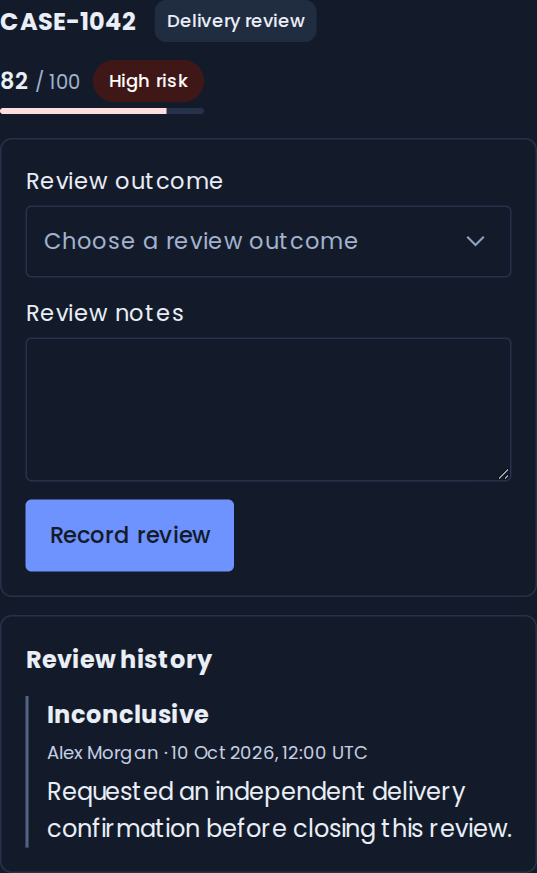
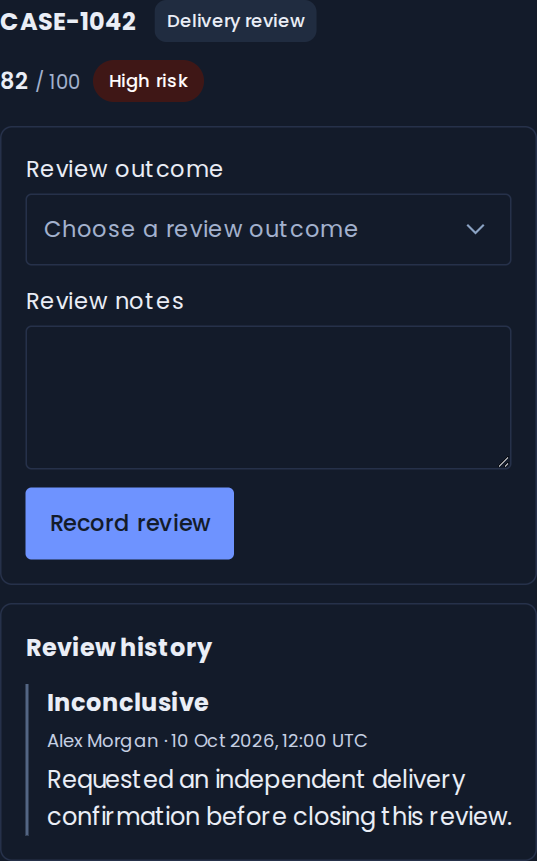
fix(investigation): keep header risk scores inline

diff --git a/easy-ui-react/src/InvestigationWorkspace/recipes/InvestigationRecipes.examples.tsx b/easy-ui-react/src/InvestigationWorkspace/recipes/InvestigationRecipes.examples.tsx
@@ -58,7 +58,13 @@ export function ReviewExample({
         <Badge variant="inverse" accessibilityLabel="Case category:">
           {caseCategories.delivery.label}
         </Badge>
-        <RiskScore value={82} assessment="high" size="sm" />
+        <RiskScore
+          value={82}
+          assessment="high"
+          size="sm"
+          showBar={false}
+          accessibilityLabel="Risk score for CASE-1042"
+        />
       </div>
       <ReviewOutcome
         caseId="CASE-1042"
@@ -174,6 +180,8 @@ export function InvestigationWorkflow({
               value={active.risk}
               assessment={active.assessment}
               size="sm"
+              showBar={false}
+              accessibilityLabel={`Risk score for ${active.id}`}
             />
           </div>
           <p className={styles.muted}>{active.trackingCode}</p>
